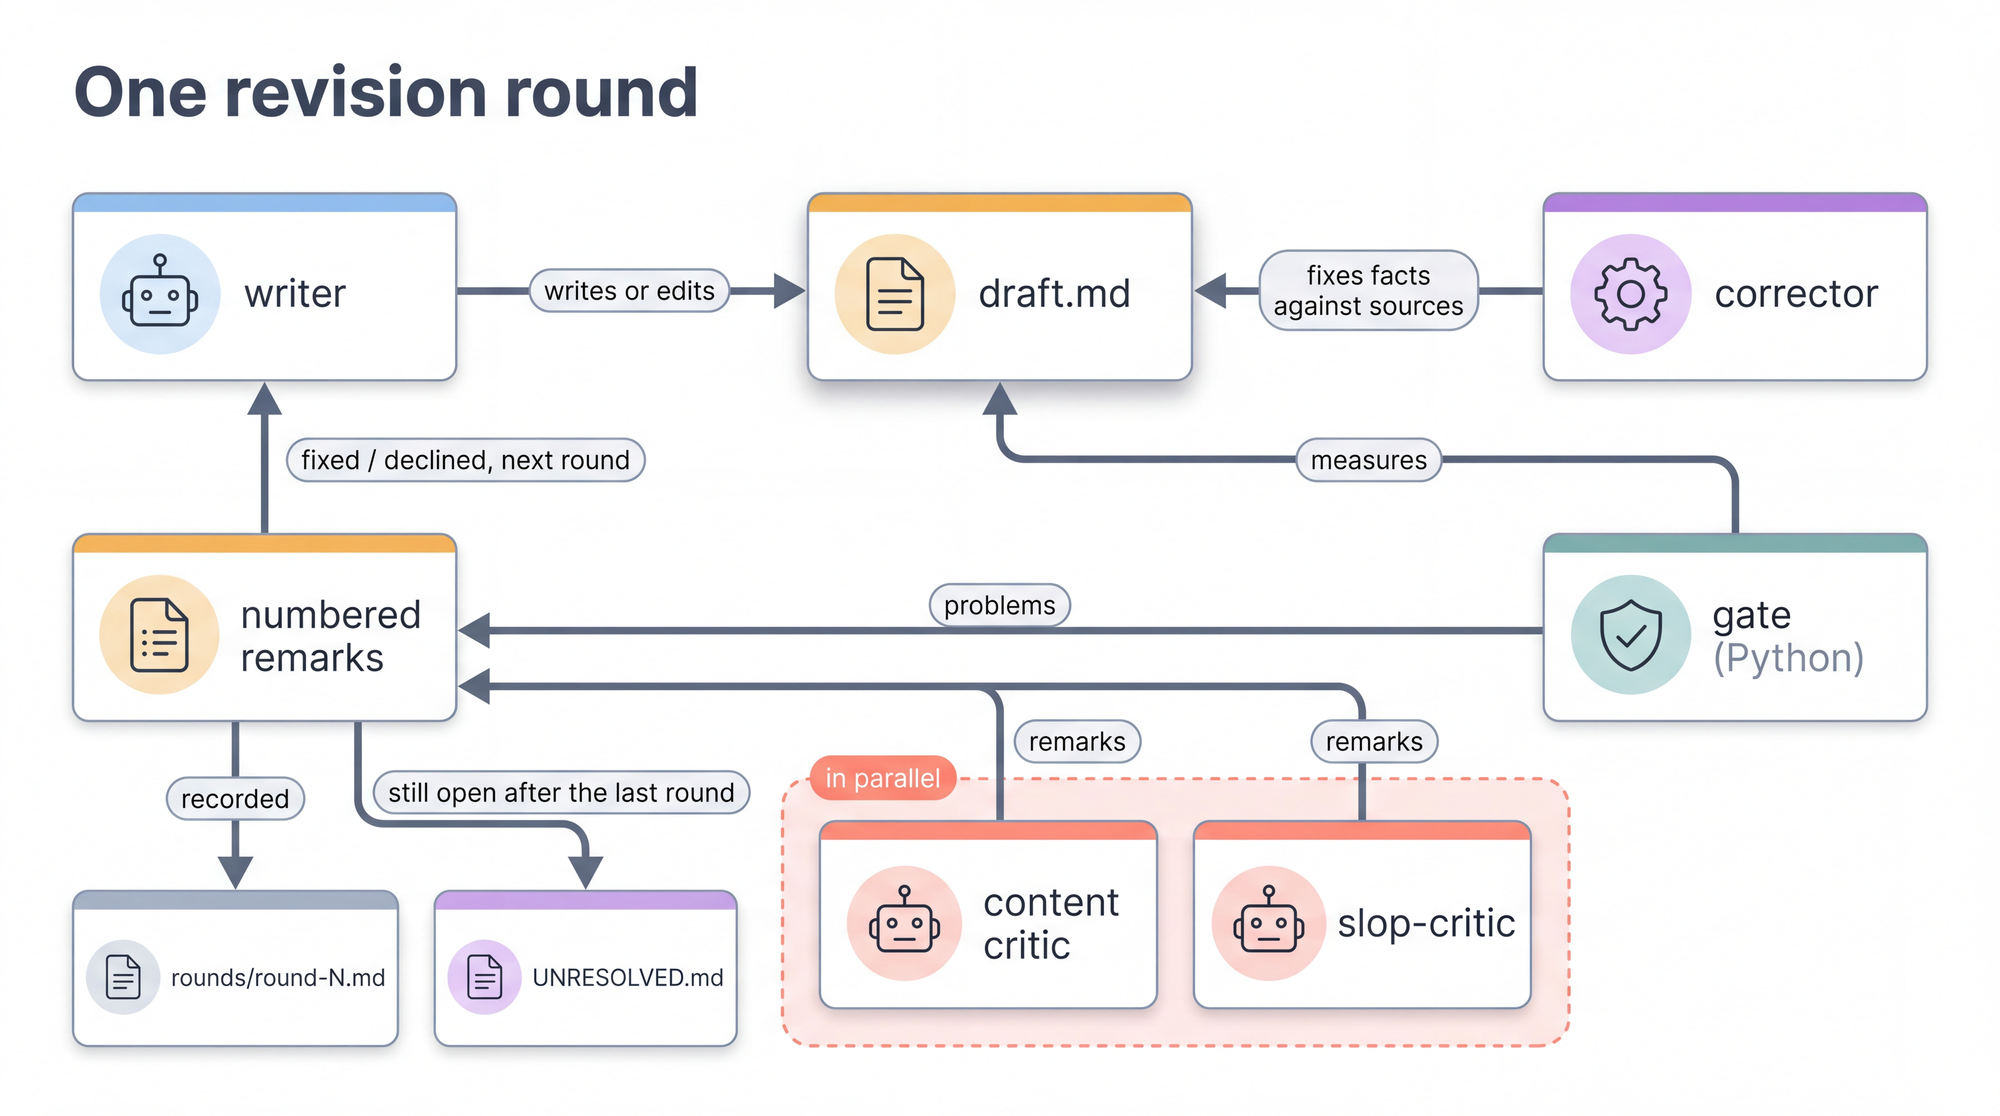
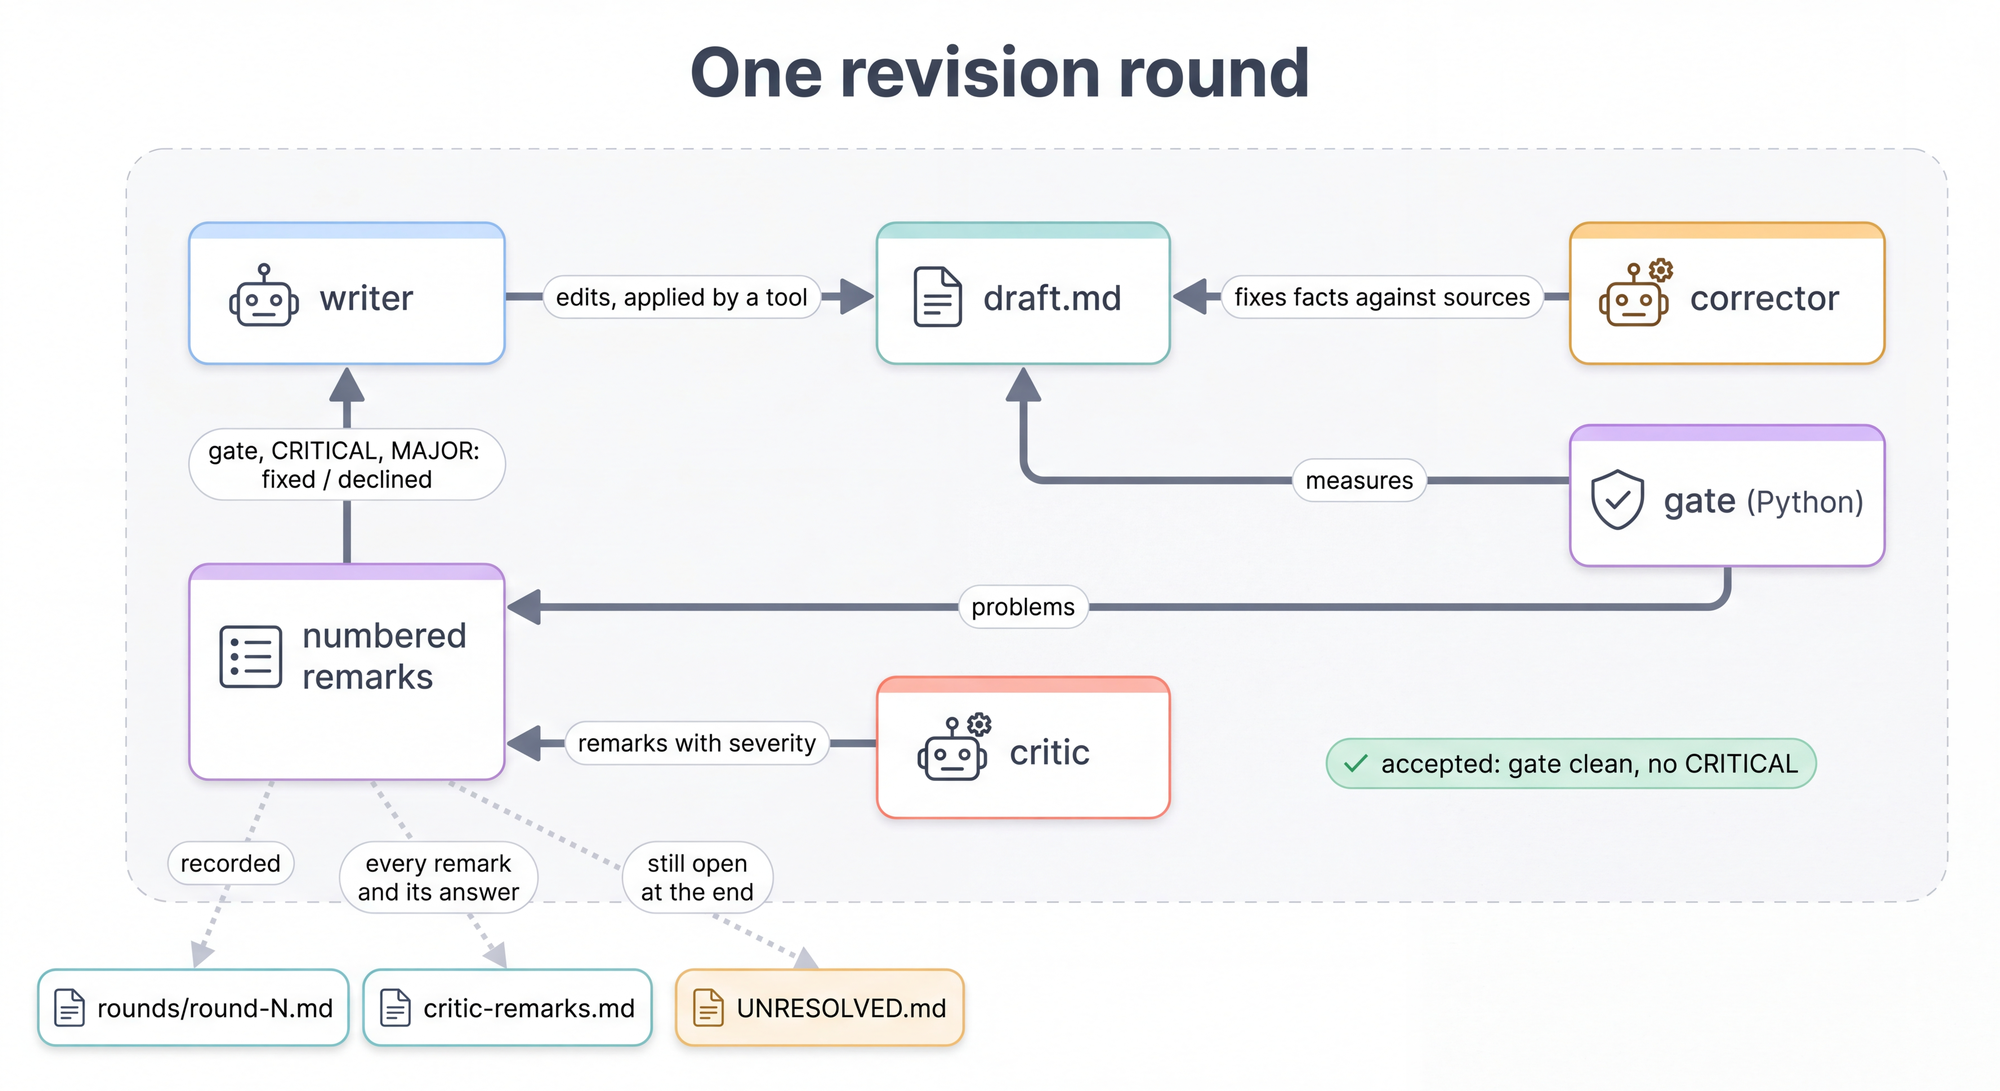
fix: requirements run records, quote checks and README after the first live run
- the run summary is outcome.md: the harness refuses a subagent a file
  named report.md, and the writer still answered that it had written it;
  the records are now checked on disk by the gate;
- check_quotes skips quotes located in an image and checks straight
  quotes followed by an attribution (a voice sheet passed with zero
  quotes checked);
- source-processor: a screen our side shared is our proposal, not the
  client's words;
- README: what facet adds to Dynamic Workflow and what it costs, with the
  numbers of one live run; the revision round with severities; new
  figures for requirements.js and the revision round, the outdated
  solution-design figure removed.

Changed region(s): [[0.0, 0.1558, 0.961, 0.9661], [0.031, 0.0312, 0.651, 0.1247]]

diff --git a/.claude/workflows/requirements.js b/.claude/workflows/requirements.js
@@ -9,7 +9,7 @@
 //   Voice         the client voice sheet: what mattered to them, with weights, in their words
 //   Requirements  writer -> fact-checker -> gate (shape, every extract row traced, quotes) ->
 //                 critic, in rounds. Only a CRITICAL remark sends the document back.
-//   Report        critic-remarks.md, UNRESOLVED.md, the directory audit, report.md
+//   Report        critic-remarks.md, UNRESOLVED.md, the directory audit, outcome.md
 //
 // The script has no filesystem and no shell: agents read and write, python tools measure through
 // the gate-runner agent, results are matched to commands by index. Runtime rules: meta is a pure
@@ -52,7 +52,9 @@ const REQ_PATH = `${run}/requirements.md`
 const ROUNDS_DIR = `${run}/rounds/req`
 const REMARKS_PATH = `${run}/critic-remarks.md`
 const UNRESOLVED_PATH = `${run}/UNRESOLVED.md`
-const REPORT_PATH = `${run}/report.md`
+// Not report.md: the harness refuses a subagent a file of that name, and on one live run the
+// writer was refused and still answered that it had written it.
+const REPORT_PATH = `${run}/outcome.md`
 const TOOLS_LOG = `${run}/tools.jsonl`
 const extractPathOf = (stem) => `${EXTRACTS_DIR}/${stem}.md`
 const roundPathOf = (n) => `${ROUNDS_DIR}/round-${n}.md`
@@ -970,6 +972,21 @@ await call(record(REPORT_PATH, `Requirements run: ${run}`, reportItems), {
   schema: WROTE,
 })
 
+// A writer's "written" is a claim; the disk is the answer. The records are checked by the gate.
+const records = [REPORT_PATH, ...(ledger.length ? [REMARKS_PATH] : []), ...(open.length ? [UNRESOLVED_PATH] : [])]
+const recordList = records.map((r) => `${tool('gate')} --file "${r}" --min-length 50 ${noted('record on disk')}`)
+const recorded = await call(commands(recordList), {
+  agentType: 'gate-runner',
+  model: MODELS.gate,
+  label: 'records',
+  phase: 'Report',
+  schema: CHECKS,
+})
+const recordChecks = (recorded && recorded.checks) || []
+const missingRecords =
+  recordChecks.length === records.length ? records.filter((r, i) => !recordChecks[i].ok) : records
+for (const r of missingRecords) log(`[report] RECORD NOT ON DISK: ${r}`)
+
 return {
   inputs: sources,
   extracts: extractPorts.map((e) => e.path),
@@ -982,6 +999,7 @@ return {
   unresolved: open.length ? UNRESOLVED_PATH : null,
   remarks: ledger.length ? REMARKS_PATH : null,
   report: REPORT_PATH,
+  records_missing: missingRecords,
   orphans,
   warnings,
 }

diff --git a/tools/check_quotes.py b/tools/check_quotes.py
@@ -37,6 +37,13 @@ import toollog
 
 QUOTE = re.compile(r"“([^”]+)”")
 ATTRIBUTED = re.compile(r"“([^”]+)”\s*\(([^)]{1,60})\)")
+# The same with straight quotes. Only when an attribution follows, so a quoted field name or a
+# JSON key is never taken for the client's words; one live voice sheet quoted this way had every
+# one of its quotes skipped and passed with zero checked.
+ATTRIBUTED_STRAIGHT = re.compile(r'"([^"\n]{3,})"\s*\(([^)]{1,60})\)')
+# Words read off an image (a frame of a shared screen, a photo of a drawing) are in no text
+# source; a quote located in an image is not checkable here and is not checked.
+IMAGE_REF = re.compile(r"\.(?:png|jpe?g|gif|webp)\b", re.IGNORECASE)
 QUOTE_HEADER = re.compile(r"words|quote|source|цитат|слова", re.IGNORECASE)
 SPLIT = re.compile(r"\[[^\]]*\]|…|\.\.\.")
 
@@ -65,7 +72,7 @@ def table_quotes(document: str) -> list[str]:
         if re.fullmatch(r"\|?\s*:?-{3,}.*", line.strip()):
             continue
         for j in columns:
-            if j < len(cells):
+            if j < len(cells) and not IMAGE_REF.search(cells[j]):
                 found.extend(QUOTE.findall(cells[j]))
     return found
 
@@ -74,7 +81,13 @@ def quotes_to_check(document: str, check_all: bool) -> list[str]:
     if check_all:
         return QUOTE.findall(document)
     seen: list[str] = []
-    for q in table_quotes(document) + [m.group(1) for m in ATTRIBUTED.finditer(document)]:
+    attributed = [
+        m.group(1)
+        for rx in (ATTRIBUTED, ATTRIBUTED_STRAIGHT)
+        for m in rx.finditer(document)
+        if not IMAGE_REF.search(m.group(2))
+    ]
+    for q in table_quotes(document) + attributed:
         if q not in seen:
             seen.append(q)
     return seen

diff --git a/tests/test_check_quotes.py b/tests/test_check_quotes.py
@@ -22,6 +22,27 @@ SOURCE = (
 )
 
 
+def test_straight_quotes_with_attribution_are_checked() -> None:
+    doc = (
+        '- "you type in the patient name" (office manager, 20:30)\n'
+        '- "a quote nobody said" (owner, 15:00)\n'
+        '- a field called "status" is not a quote\n'
+    )
+    problems, checked = check_quotes.check(doc, SOURCE)
+    assert checked == 2 and len(problems) == 1 and "nobody said" in problems[0]
+
+
+def test_quotes_located_in_an_image_are_not_checked() -> None:
+    doc = (
+        "| ID | Fact | Source |\n| --- | --- | --- |\n"
+        "| F-01 | Sample tax line | demo-08-quote-33m40s.jpg — “Tax 10.1%” |\n"
+        "| F-02 | Flat fee | 15:00 John Doe — “a flat fee per misit” |\n"
+        "Shown on screen: “Works with no signal” (frame demo-02.jpg)\n"
+    )
+    problems, checked = check_quotes.check(doc, SOURCE)
+    assert checked == 1 and problems == []
+
+
 def test_attributed_quote_found() -> None:
     doc = "Typed names “you pick a slot and you type in the patient name” (office manager)."
     problems, checked = check_quotes.check(doc, SOURCE)

diff --git a/.claude/agents/source-processor.md b/.claude/agents/source-processor.md
@@ -98,6 +98,13 @@ document's text does not, in the table it belongs to, with the image's file name
 locator (frame-07.jpg) and, as the quote, the words visible on it. Do not describe images
 that only repeat the text.
 
+A frame of a screen our side shared (our prototype, our slides, our sample prices) shows our
+proposal, not the client's words. The transcript usually says who was sharing. Such a frame is
+not a requirement, a decision or a fact about the client: record what the client said about it
+(accepted, rejected, asked to change) with the transcript's locator, and where the client said
+nothing, at most an open question naming the frame. Rows that rest on our own screens alone
+were promoted into one live run's requirements as if the client had asked for them.
+
 ## Language
 
 Write the extract in the language of the document you read. The writer copies your words into

diff --git a/library/agents/source_processor/prompt.md b/library/agents/source_processor/prompt.md
@@ -87,6 +87,13 @@ document's text does not, in the table it belongs to, with the image's file name
 locator (frame-07.jpg) and, as the quote, the words visible on it. Do not describe images
 that only repeat the text.
 
+A frame of a screen our side shared (our prototype, our slides, our sample prices) shows our
+proposal, not the client's words. The transcript usually says who was sharing. Such a frame is
+not a requirement, a decision or a fact about the client: record what the client said about it
+(accepted, rejected, asked to change) with the transcript's locator, and where the client said
+nothing, at most an open question naming the frame. Rows that rest on our own screens alone
+were promoted into one live run's requirements as if the client had asked for them.
+
 ## Language
 
 Write the extract in the language of the document you read. The writer copies your words into
